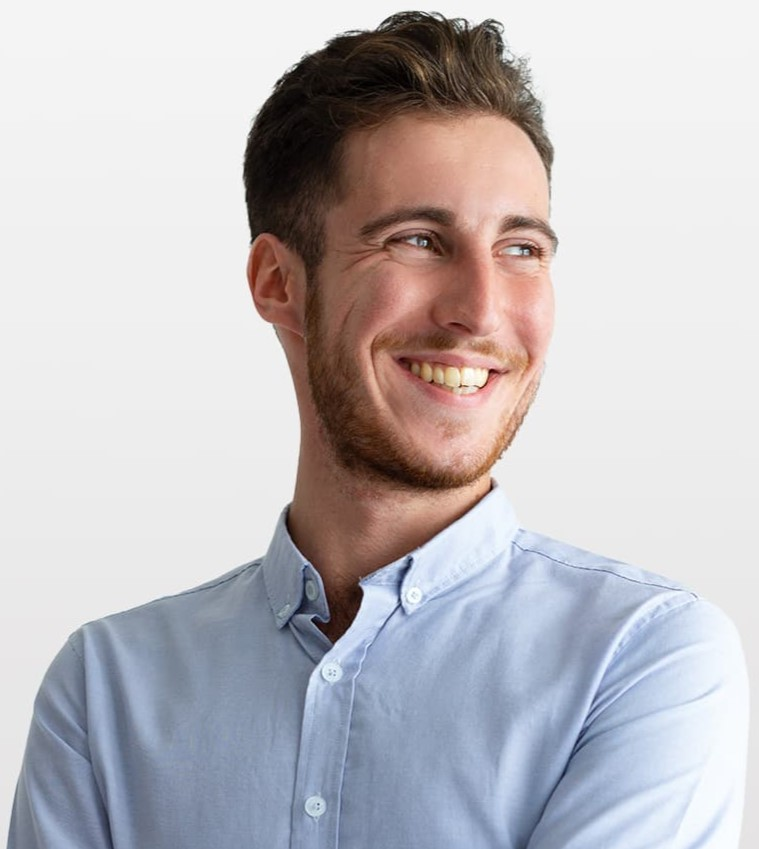
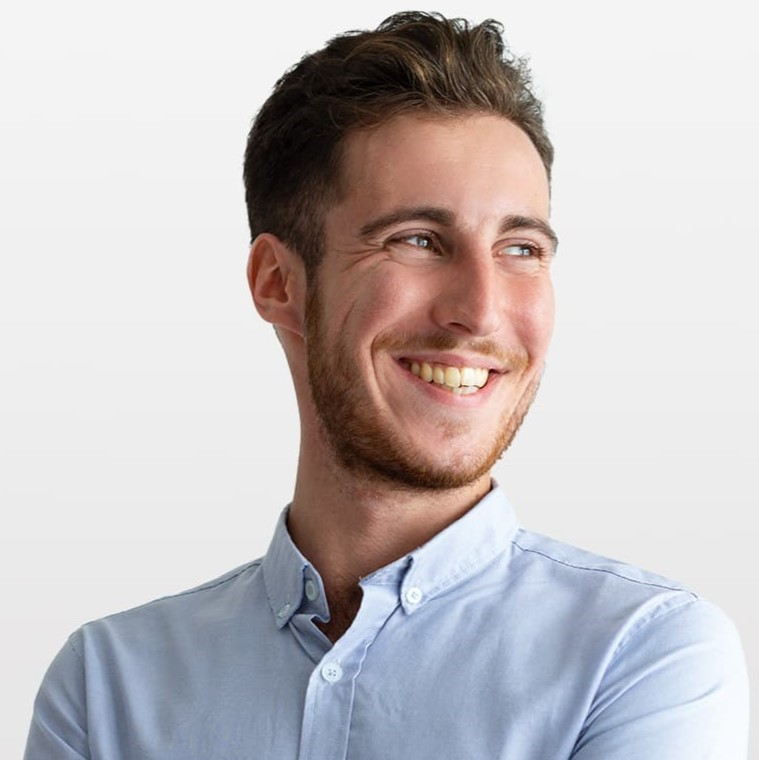
3 try

Changed region(s): [[0.0, 0.0, 0.9394, 1.0], [0.9697, 0.9684, 1.0, 1.0], [0.9091, 0.9684, 0.9394, 1.0]]

diff --git a/index.html b/index.html
@@ -90,28 +90,28 @@
                 <h2 class="section-tittle team-tittle">Our Team</h2>
                 <ul class="team-list">
                     <li class="team-list-item">
-                        <img src="./images/MarkGuerreroCut.jpg" alt="mark_guerrero" width="264" />
+                        <img src="./images/MarkGuerreroCut.jpg" alt="mark_guerrero" width="264" height="260px" />
                         <div class="team">
                             <h3 class="team-names">Mark Guerrero</h3>
                             <p class="team-descr">Product Designer</p>
                         </div>
                     </li>
                     <li class="team-list-item">
-                        <img src="./images/TomFordCut.jpg" alt="tom_ford" width="264" />
+                        <img src="./images/TomFordCut.jpg" alt="tom_ford" width="264" height="260px" />
                         <div class="team">
                             <h3 class="team-names">Tom Ford</h3>
                             <p class="team-descr">Frontend Developer</p>
                         </div>
                     </li>
                     <li class="team-list-item">
-                        <img src="./images/CamilaGarciaCut.jpg" alt="camila_garcia" width="264" />
+                        <img src="./images/CamilaGarciaCut.jpg" alt="camila_garcia" width="264" height="260px" />
                         <div class="team">
                             <h3 class="team-names">Camila Garcia</h3>
                             <p class="team-descr">Marketing</p>
                         </div>
                     </li>
                     <li class="team-list-item">
-                        <img src="./images/DanielWilsonCut.jpg" alt="daniel_wilson" width="264" />
+                        <img src="./images/DanielWilsonCut.jpg" alt="daniel_wilson" width="264" height="260px" />
                         <div class="team">
                             <h3 class="team-names">Daniel Wilson</h3>
                             <p class="team-descr">UI Designer</p>
@@ -127,33 +127,45 @@
                 <ul class="portfolio-list">
                     <li class="port-list-item">
                         <img src="./images/BankingApp.jpg" alt="banking_app" width="360">
-                        <h3 class="portfolio-tittles">Banking App</h3>
-                        <p class="app">App</p>
+                        <div class="portf-descr">
+                            <h3 class="portfolio-tittles">Banking App</h3>
+                            <p class="app">App</p>
+                        </div>
                     </li>
                     <li>
                         <img src="./images/CashlessPayment.jpg" alt="cashless_payment" width="360">
-                        <h3 class="portfolio-tittles">Cashless Payment</h3>
-                        <p class="app">Marketing</p>
+                        <div class="portf-descr">
+                            <h3 class="portfolio-tittles">Cashless Payment</h3>
+                            <p class="app">Marketing</p>
+                        </div>
                     </li>
                     <li>
                         <img src="./images/MeditationApp.jpg" alt="meditation_app" width="360">
-                        <h3 class="portfolio-tittles">Meditation App</h3>
-                        <p class="app">App</p>
+                        <div class="portf-descr">
+                            <h3 class="portfolio-tittles">Meditation App</h3>
+                            <p class="app">App</p>
+                        </div>
                     </li>
                     <li>
                         <img src="./images/TaxiService.jpg" alt="taxi_service" width="360">
-                        <h3 class="portfolio-tittles">Taxi Service</h3>
-                        <p class="app">Marketing</p>
+                        <div class="portf-descr">
+                            <h3 class="portfolio-tittles">Taxi Service</h3>
+                            <p class="app">Marketing</p>
+                        </div>
                     </li>
                     <li>
                         <img src="./images/ScreenIllustrations.jpg" alt="screen_illustrations" width="360">
-                        <h3 class="portfolio-tittles">Screen Illustrations</h3>
-                        <p class="app">Design</p>
+                        <div class="portf-descr">
+                            <h3 class="portfolio-tittles">Screen Illustrations</h3>
+                            <p class="app">Design</p>
+                        </div>
                     </li>
                     <li>
                         <img src="./images/OnlineCourses.jpg" alt="online_courses" width="360">
-                        <h3 class="portfolio-tittles">Online Courses</h3>
-                        <p class="app">Marketing</p>
+                        <div class="portf-descr">
+                            <h3 class="portfolio-tittles">Online Courses</h3>
+                            <p class="app">Marketing</p>
+                        </div>
                     </li>
                 </ul>
             </div>
@@ -163,7 +175,7 @@
 
     <footer class="foot">
         <div class="container">
-            <a class="logo" href="./index.html">Web<span class="studio-footer">Studio</span> </a>
+            <a class="logo logo-foot" href="./index.html">Web<span class="studio-footer">Studio</span> </a>
             <p class="foot-text">Increase the flow of customers and sales for your business with digital marketing &
                 growth
                 solutions.</p>

diff --git a/css/styles.css b/css/styles.css
@@ -251,6 +251,12 @@ a {
     width: calc((100% - 48px) / 3);
 }
 
+.portf-descr {
+    padding: 32px 16px;
+    border: 1px solid #e7e9fc;
+    border-top: none;
+}
+
 .portfolio-tittles {
     font-weight: 500;
     font-size: 20px;
@@ -258,6 +264,7 @@ a {
     letter-spacing: 0.02em;
     color: #2e2f42;
     text-align: center;
+    margin-bottom: 8px;
 }
 
 .app {
@@ -269,6 +276,13 @@ a {
 
 .foot {
     background-color: #2e2f42;
+    padding-top: 100px;
+    padding-bottom: 100px;
+}
+
+.logo-foot {
+    display: inline-block;
+    margin-bottom: 16px;
 }
 
 .studio-footer {
